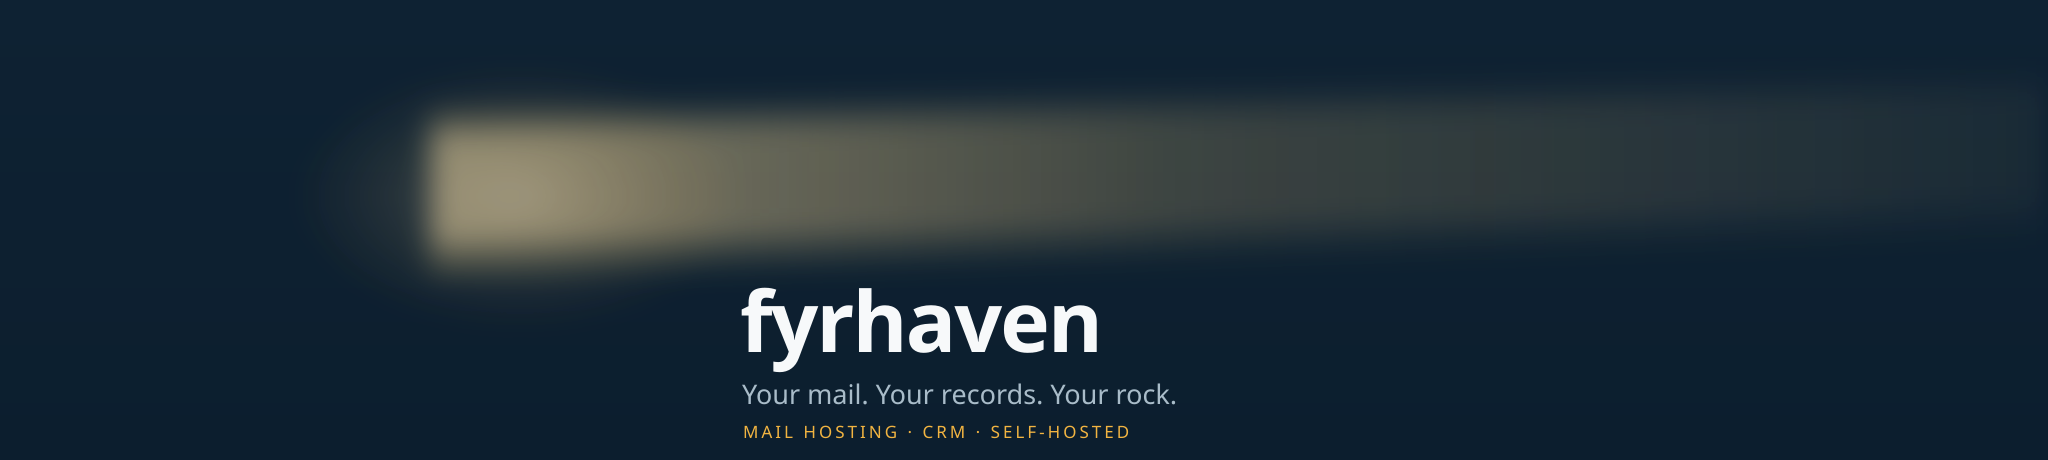
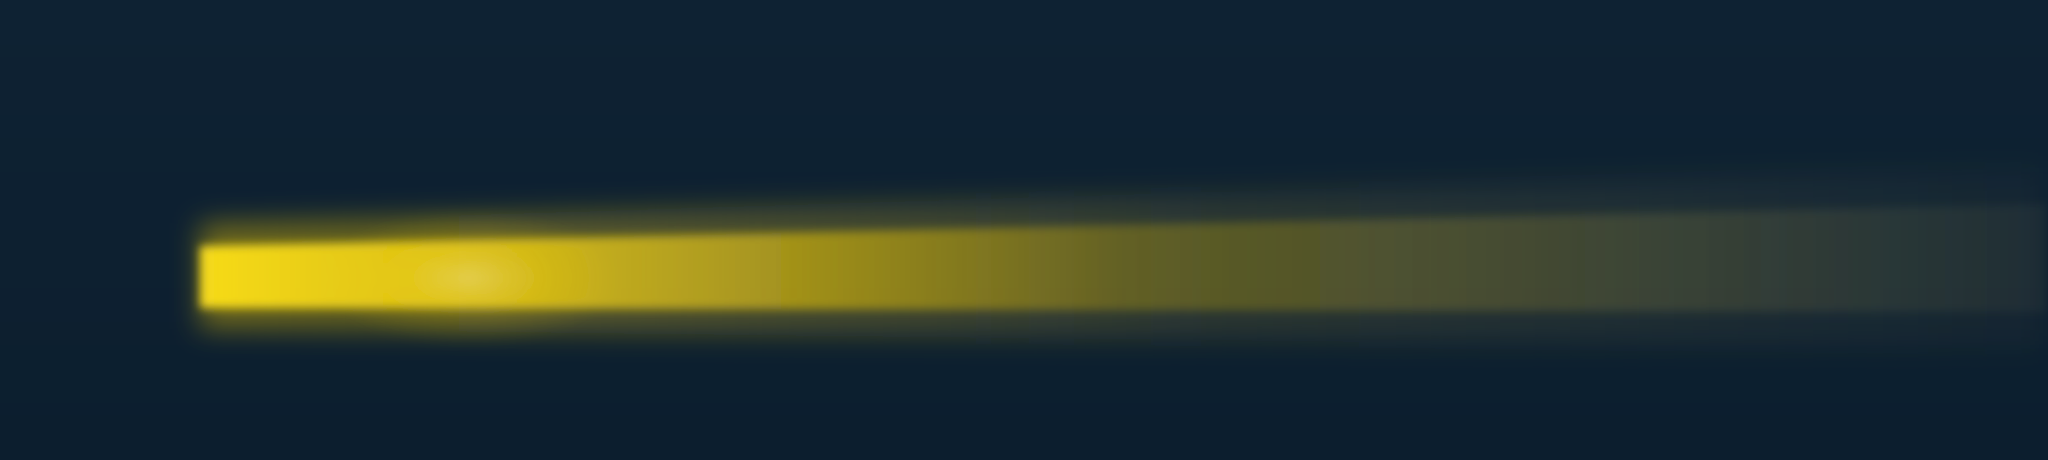
brand: the header is the beam alone, at the lamp and actually yellow
Wordmark, tagline and capability line are out: settle the light first, then put
the words back around it.

* **Position, measured rather than guessed.** On a real profile the avatar is not
  centred on the band — its centre sits about 63% of the way down — so the lantern
  is at ~60%, not the middle. That is why every "correct" position looked too high
  on the page and every "too high" looked right here: my composite had the avatar
  centred, the real page pushes it down. The beam is at 60% now, and the check
  simulates the measured position instead of an assumed one.
* **Yellow, not mustard.** One blur cannot be both a wide halo and a bright core:
  spreading a 70px core with blur 13 diluted it to olive. Two filters — soft 14
  for the fan, tight 5 for the core — with the strong stop at 0.95 opacity.
* **Narrow at the lamp, wider at the far edge** — a fan, which is what light does.
  Broad at the lamp and thinning out reads as a band of paint.
* The beam starts at x=200 so its blurred ramp stays behind the avatar; starting
  at 430 left a visible blob where it began.

Three positions (54/60/66%) were rendered with the final colours for the next
look, rather than one more guess.

diff --git a/brand/README.md b/brand/README.md
@@ -26,17 +26,24 @@ are served by the store itself.
   click, not a step in `npm run release`.
 * **Org avatar / favicon** — `fyrhaven-mark.png` (512×512) or the SVG where SVG
   is accepted.
-* **Profile headers** — `fyrhaven-header.png` is the upload: 2048×460, which is
-  the 40:9 band Gravatar actually renders, so nothing is cropped twice (an
-  earlier 2:1 version was, and lost the bottom line).
+* **Profile headers** — `fyrhaven-header.png`: 2048×460, the 40:9 band Gravatar
+  renders, so nothing is cropped twice. **Beam only, for now** — the wordmark,
+  tagline and capability line were taken out on purpose: settle the light, then
+  put the words back around it.
 
-  Three rules, each from putting a version on a real profile:
-  **no mark in the artwork** — the profile picture is the mark and sits on top of
-  the left ~30%, so a drawn one is a second lighthouse behind the first;
-  **keep the text out of the left 30%**, which the avatar covers;
-  **the beam starts behind the avatar and is blurred**, with the light in the top
-  band and the words in the bottom one. A beam with a sharp edge reads as a band
-  of paint, and a beam that starts outside the circle leaves a visible seam.
+  What the artwork is: a fan of light that leaves the lantern and runs off the
+  right edge. Four rules, each from a version that failed on a real profile:
+  **no mark in the cover** (the profile picture is the mark); **the beam starts at
+  x=200**, far enough left to be hidden behind the avatar, or its blurred ramp
+  shows as a blob at the circle's edge; **the beam sits at ~60% of the height**,
+  because the avatar is not centred on the band but pushed down — its centre is
+  about 63% of the way down, which is where the lantern ends up; and **the near
+  end is narrow, widening to the right**, which is what light does. Broad at the
+  lamp and thinning out reads as a band of paint.
+
+  Two filters, not one: a soft halo for the spread (`soft`, blur 14) and a tight
+  bright core (`tight`, blur 5). A single blur can only do one of those, and the
+  diluted result goes mustard instead of yellow.
 * **Printing one ink** — `fyrhaven-mark-mono.svg`, never a file with a field.
 
 ## Palette
